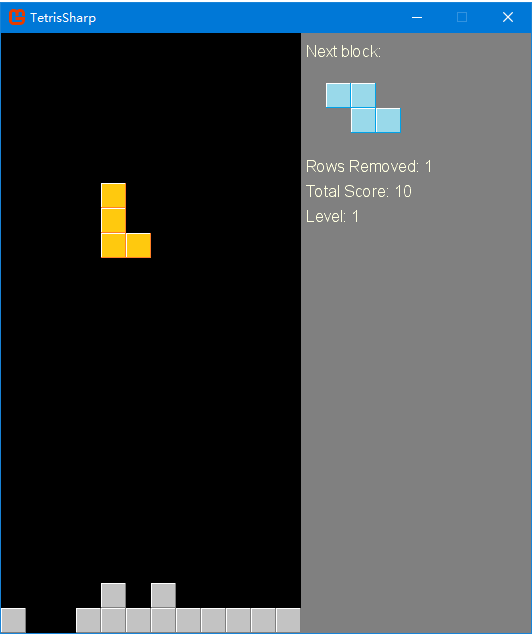
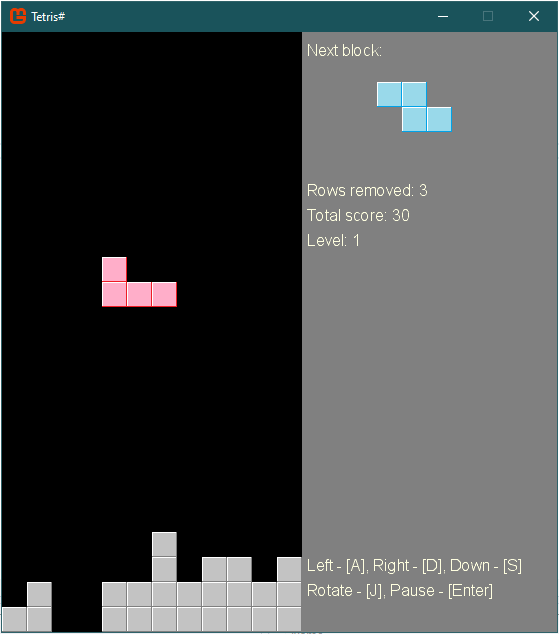
Added the instructions, added the pause feature, fixed the blocking inserting issue, updated README.md.

diff --git a/src/TetrisSharp/Scenes/GameScene.cs b/src/TetrisSharp/Scenes/GameScene.cs
@@ -13,11 +13,14 @@ using TetrisSharp.Sprites;
 using TetrisSharp.Framework.Sounds;
 using Microsoft.Xna.Framework.Audio;
 using TetrisSharp.Framework.Components;
+using TetrisSharp.Framework.Sprites;
 
 namespace TetrisSharp.Scenes
 {
     internal sealed class GameScene : Scene, IGameScene
     {
+        private const string HintTextLine1 = "Left - [A], Right - [D], Down - [S]";
+        private const string HintTextLine2 = "Rotate - [J], Pause - [Enter]";
         private const float KeyDelay = 0.08F;
         private const string LevelTextPattern = "Level: {0}";
         private const string RowsRemovedTextPattern = "Rows removed: {0}";
@@ -25,6 +28,7 @@ namespace TetrisSharp.Scenes
         private static readonly Random _random = new(DateTime.Now.Millisecond);
         private readonly BlockGenerator _blockGenerator = new();
         private readonly GameBoard _gameBoard = new(Constants.NumberOfTilesX, Constants.NumberOfTilesY);
+        private readonly KeyPress _keyEnter = new(Keys.Enter);
         private readonly KeyPress _keyJ = new(Keys.J);
         private readonly Queue<int> _tetrisQueue = new();
         private readonly Texture2D[] _tileTextures = new Texture2D[Constants.TileTextureCount];
@@ -41,6 +45,8 @@ namespace TetrisSharp.Scenes
         private Texture2D _gameBoardTexture;
         private Sound _gameoverSound;
         private SoundEffect _gameoverSoundEffect;
+        private Text _hintTextLine1;
+        private Text _hintTextLine2;
         private bool _isGameOver = false;
         private Text _labelNextBlock;
         private int _level = 1;
@@ -48,6 +54,7 @@ namespace TetrisSharp.Scenes
         private Sound _levelUpSound;
         private SoundEffect _levelUpSoundEffect;
         private Block _nextBlock;
+        private bool _paused = false;
         private Sound _rowRemovingSound;
         private SoundEffect _rowRemovingSoundEffect;
         private int _rowsRemoved;
@@ -56,6 +63,13 @@ namespace TetrisSharp.Scenes
         private float _timeSinceLastKeyPress = 0;
         private int _totalScore;
         private Text _totalScoreText;
+        private Texture2D _pausedTexture;
+        private DumbSprite _pausedSprite;
+
+        /// <summary>
+        /// Initializes a new instance of the <c>GameScene</c> class.
+        /// </summary>
+        /// <param name="game">The game.</param>
         public GameScene(IOvowGame game)
             : base(game)
         {
@@ -106,26 +120,37 @@ namespace TetrisSharp.Scenes
                 CollisionDetective = false
             };
 
-            _rowsRemovedText = new Text(string.Format(RowsRemovedTextPattern, _rowsRemoved), this, _font, Color.LightYellow, new Vector2(25 * Constants.NumberOfTilesX + 5, 5 * 25))
+            _rowsRemovedText = new Text(string.Format(RowsRemovedTextPattern, _rowsRemoved), this, _font, Color.LightYellow, new Vector2(25 * Constants.NumberOfTilesX + 5, 6 * 25))
             {
                 CollisionDetective = false
             };
 
-            _totalScoreText = new Text(string.Format(TotalScoreTextPattern, _totalScore), this, _font, Color.LightYellow, new Vector2(25 * Constants.NumberOfTilesX + 5, 6 * 25))
+            _totalScoreText = new Text(string.Format(TotalScoreTextPattern, _totalScore), this, _font, Color.LightYellow, new Vector2(25 * Constants.NumberOfTilesX + 5, 7 * 25))
             {
                 CollisionDetective = false
             };
 
-            _levelText = new Text(string.Format(LevelTextPattern, _level), this, _font, Color.LightYellow, new Vector2(25 * Constants.NumberOfTilesX + 5, 7 * 25))
+            _levelText = new Text(string.Format(LevelTextPattern, _level), this, _font, Color.LightYellow, new Vector2(25 * Constants.NumberOfTilesX + 5, 8 * 25))
             {
                 CollisionDetective = false
             };
 
+            _hintTextLine1 = new Text(HintTextLine1, this, _font, Color.LightYellow, new Vector2(25 * Constants.NumberOfTilesX + 5, Constants.NumberOfTilesY * 25 - 25 * 3))
+            {
+                CollisionDetective = false
+            };
+
+            _hintTextLine2 = new Text(HintTextLine2, this, _font, Color.LightYellow, new Vector2(25 * Constants.NumberOfTilesX + 5, Constants.NumberOfTilesY * 25 - 25 * 2))
+            {
+                CollisionDetective = false
+            };
 
             Add(_labelNextBlock);
             Add(_rowsRemovedText);
             Add(_totalScoreText);
             Add(_levelText);
+            Add(_hintTextLine1);
+            Add(_hintTextLine2);
 
             _gameBoardTexture = new Texture2D(Game.GraphicsDevice, 25 * Constants.NumberOfTilesX, 25 * Constants.NumberOfTilesY);
             var gameBoardColorData = new Color[25 * Constants.NumberOfTilesX * 25 * Constants.NumberOfTilesY];
@@ -168,12 +193,40 @@ namespace TetrisSharp.Scenes
             _tetrisQueue.Enqueue(_random.Next(_blockGenerator.BlockDefinitions.Definitions.Count));
             _tetrisQueue.Enqueue(_random.Next(_blockGenerator.BlockDefinitions.Definitions.Count));
 
+            _pausedTexture = contentManager.Load<Texture2D>($"textures\\paused");
+            _pausedSprite = new DumbSprite(this, _pausedTexture, new Vector2(10, 60))
+            {
+                Visible = false,
+                Layer = 5
+            };
+
+            Add(_pausedSprite);
+
             AddBlockToBoard();
         }
 
         public override void Update(GameTime gameTime)
         {
             KeyPress.Update();
+
+            if (_keyEnter.IsPressed)
+            {
+                _paused = !_paused;
+            }
+
+            if (_paused)
+            {
+                _pausedSprite.Visible = true;
+                if (_bgm.State != SoundState.Paused)
+                    _bgm.Pause();
+                return;
+            }
+            else
+            {
+                _pausedSprite.Visible = false;
+                if (_bgm.State != SoundState.Playing)
+                    _bgm.Resume();
+            }
 
             base.Update(gameTime);
 
@@ -269,7 +322,7 @@ namespace TetrisSharp.Scenes
             Add(_block);
 
             var nextIndex = _tetrisQueue.Peek();
-            _nextBlock = _blockGenerator.CreateBlock(this, _tileTextures, nextIndex, Constants.NumberOfTilesX + 1, 2);
+            _nextBlock = _blockGenerator.CreateBlock(this, _tileTextures, nextIndex, Constants.NumberOfTilesX + 3, 2);
             Add(_nextBlock);
 
             if (_block.CollisionsWithBoard())

diff --git a/src/TetrisSharp/Framework/Scenes/Scene.cs b/src/TetrisSharp/Framework/Scenes/Scene.cs
@@ -16,11 +16,10 @@ namespace TetrisSharp.Framework.Scenes
         #region Private Fields
 
         private static readonly object endingSyncLock = new object();
+        private static readonly object lockRoot = new object();
         private readonly List<IComponent> gameComponents = new List<IComponent>();
         private volatile bool ended = false;
         private volatile bool ending = false;
-        private static readonly object lockRoot = new object();
-
         #endregion Private Fields
 
         #region Protected Constructors
@@ -102,6 +101,10 @@ namespace TetrisSharp.Framework.Scenes
 
         #region Public Methods
 
+        public virtual int Layer { get; set; } = 0;
+
+        protected virtual string NextSceneName { get; set; }
+
         public void Add(IComponent item)
         {
             lock (lockRoot)
@@ -117,9 +120,6 @@ namespace TetrisSharp.Framework.Scenes
                 gameComponents.Clear();
             }
         }
-
-        protected virtual string NextSceneName { get; set; }
-
         public bool Contains(IComponent item) => gameComponents.Contains(item);
 
         public void CopyTo(IComponent[] array, int arrayIndex) => gameComponents.CopyTo(array, arrayIndex);
@@ -140,6 +140,7 @@ namespace TetrisSharp.Framework.Scenes
                 gameComponents
                     .Where(c => c is IVisibleComponent)
                     .Select(c => c as IVisibleComponent)
+                    .OrderBy(c => c.Layer)
                     .ToList()
                     .ForEach(vc => vc.Draw(gameTime, spriteBatch));
             }
@@ -148,12 +149,6 @@ namespace TetrisSharp.Framework.Scenes
             {
                 this.Out.Draw(gameTime, spriteBatch);
             }
-        }
-
-        public void EndTo(string sceneName)
-        {
-            NextSceneName = sceneName;
-            End();
         }
 
         public virtual void End()
@@ -174,6 +169,11 @@ namespace TetrisSharp.Framework.Scenes
             }
         }
 
+        public void EndTo(string sceneName)
+        {
+            NextSceneName = sceneName;
+            End();
+        }
         public virtual void Enter() { }
 
         public bool Equals(IComponent other)

diff --git a/src/TetrisSharp/Sprites/Block.cs b/src/TetrisSharp/Sprites/Block.cs
@@ -53,14 +53,13 @@ namespace TetrisSharp.Sprites
                     return false;
                 }
 
-                for (var x = 0; x < CurrentRotation.Width; x++)
+                for (var y = 0; y < CurrentRotation.Height; y++)
                 {
-                    for (var y = 0; y < CurrentRotation.Height; y++)
+                    if (_x > 0 && 
+                        CurrentRotation.Matrix[0, y] == 1 && 
+                        _gameScene.GameBoard.BoardMatrix[_x - 1, _y + y] == 1)
                     {
-                        if (_x > 0 && _gameScene.GameBoard.BoardMatrix[_x + x - 1, _y + y] == 1)
-                        {
-                            return false;
-                        }
+                        return false;
                     }
                 }
 
@@ -77,14 +76,13 @@ namespace TetrisSharp.Sprites
                     return false;
                 }
 
-                for (var x = CurrentRotation.Width - 1; x >= 0; x--)
+                for (var y = 0; y < CurrentRotation.Height; y++)
                 {
-                    for (var y = 0; y < CurrentRotation.Height; y++)
+                    if (_x < Constants.NumberOfTilesX - 1 && 
+                        CurrentRotation.Matrix[CurrentRotation.Width - 1, y] == 1 &&
+                        _gameScene.GameBoard.BoardMatrix[_x + CurrentRotation.Width, _y + y] == 1)
                     {
-                        if (_x < Constants.NumberOfTilesX - 1 && _gameScene.GameBoard.BoardMatrix[_x + x + 1, _y + y] == 1)
-                        {
-                            return false;
-                        }
+                        return false;
                     }
                 }
 

diff --git a/src/TetrisSharp/KeyPress.cs b/src/TetrisSharp/KeyPress.cs
@@ -1,41 +1,45 @@
 using Microsoft.Xna.Framework.Input;
-using System;
-using System.Collections.Generic;
-using System.Text;
 
 namespace TetrisSharp
 {
     public class KeyPress
     {
-        public KeyPress(Keys Key)
+        private static KeyboardState _state;
+
+        private readonly Keys _key;
+        private bool _isHeld;
+
+        public KeyPress(Keys key)
         {
-            key = Key;
-            isHeld = false;
+            _key = key;
+            _isHeld = false;
         }
 
-        public bool IsPressed { get { return isPressed(); } }
-
-        public static void Update() { state = Keyboard.GetState(); }
-
-        private Keys key;
-        private bool isHeld;
-        private static KeyboardState state;
-        private bool isPressed()
+        public bool IsPressed
         {
-            if (state.IsKeyDown(key))
+            get
             {
-                if (isHeld) return false;
+
+                if (_state.IsKeyDown(_key))
+                {
+                    if (_isHeld) return false;
+                    else
+                    {
+                        _isHeld = true;
+                        return true;
+                    }
+                }
                 else
                 {
-                    isHeld = true;
-                    return true;
+                    if (_isHeld) _isHeld = false;
+                    return false;
                 }
             }
-            else
-            {
-                if (isHeld) isHeld = false;
-                return false;
-            }
+        }
+
+        public static void Update()
+        {
+            _state = Keyboard.GetState();
         }
     }
 }

diff --git a/src/TetrisSharp/Framework/OvowGame.cs b/src/TetrisSharp/Framework/OvowGame.cs
@@ -60,11 +60,6 @@ namespace TetrisSharp.Framework
             this.windowSettings = windowSettings;
             Content.RootDirectory = "Content";
 
-            if (!string.IsNullOrEmpty(windowSettings.Title))
-            {
-                this.Window.Title = windowSettings.Title;
-            }
-
             this.MessageDispatcher.RegisterHandler<SceneEndedMessage>((publisher, message) =>
             {
                 lock (sync)
@@ -155,6 +150,11 @@ namespace TetrisSharp.Framework
 
         protected override void Initialize()
         {
+            if (!string.IsNullOrEmpty(windowSettings.Title))
+            {
+                this.Window.Title = windowSettings.Title;
+            }
+
             if (this.scenes?.Count == 0 || this.ActiveScene == null)
             {
                 throw new InvalidOperationException("No active scene has been defined.");

diff --git a/src/TetrisSharp/Constants.cs b/src/TetrisSharp/Constants.cs
@@ -9,7 +9,7 @@ namespace TetrisSharp
         public const int TileTextureCount = 7;
         public const int NumberOfTilesX = 12;
         public const int NumberOfTilesY = 24;
-        public const int ScoreBoardWidth = 230;
+        public const int ScoreBoardWidth = 255;
         public const int RowsForLevelUp = 30;
     }
 }

diff --git a/src/TetrisSharp/Framework/VisibleComponent.cs b/src/TetrisSharp/Framework/VisibleComponent.cs
@@ -78,6 +78,9 @@ namespace TetrisSharp.Framework
         public virtual float X { get; set; }
 
         public virtual float Y { get; set; }
+
+        public virtual int Layer { get; set; } = 0;
+
         protected IScene Scene { get; }
 
         public void Draw(GameTime gameTime, SpriteBatch spriteBatch)

diff --git a/src/TetrisSharp/Framework/Transitions/Transition.cs b/src/TetrisSharp/Framework/Transitions/Transition.cs
@@ -35,6 +35,8 @@ namespace TetrisSharp.Framework.Transitions
 
         public bool CollisionDetective => false;
 
+        public int Layer { get; set; } = 0;
+
         public virtual void Draw(GameTime gameTime, SpriteBatch spriteBatch)
         { }
 

diff --git a/src/TetrisSharp/Framework/IVisibleComponent.cs b/src/TetrisSharp/Framework/IVisibleComponent.cs
@@ -20,5 +20,7 @@ namespace TetrisSharp.Framework
         void Draw(GameTime gameTime, SpriteBatch spriteBatch);
 
         bool CollisionDetective { get; }
+
+        int Layer { get; set; }
     }
 }

diff --git a/README.md b/README.md
@@ -21,3 +21,13 @@ dotnet build
 cd src/TetrisSharp
 dotnet publish -c Release -o published -r win-x64
 ```
+
+## Controls
+- Moving left: <kbd>A</kbd>
+- Moving right: <kbd>D</kbd>
+- Moving down: <kbd>S</kbd>
+- Rotate block: <kbd>J</kbd>
+- Pause: <kbd>Enter</kbd>
+
+## About BGM
+The background music was from the artist [GMRemix](https://music.163.com/#/artist?id=29811373). No commercial use.
